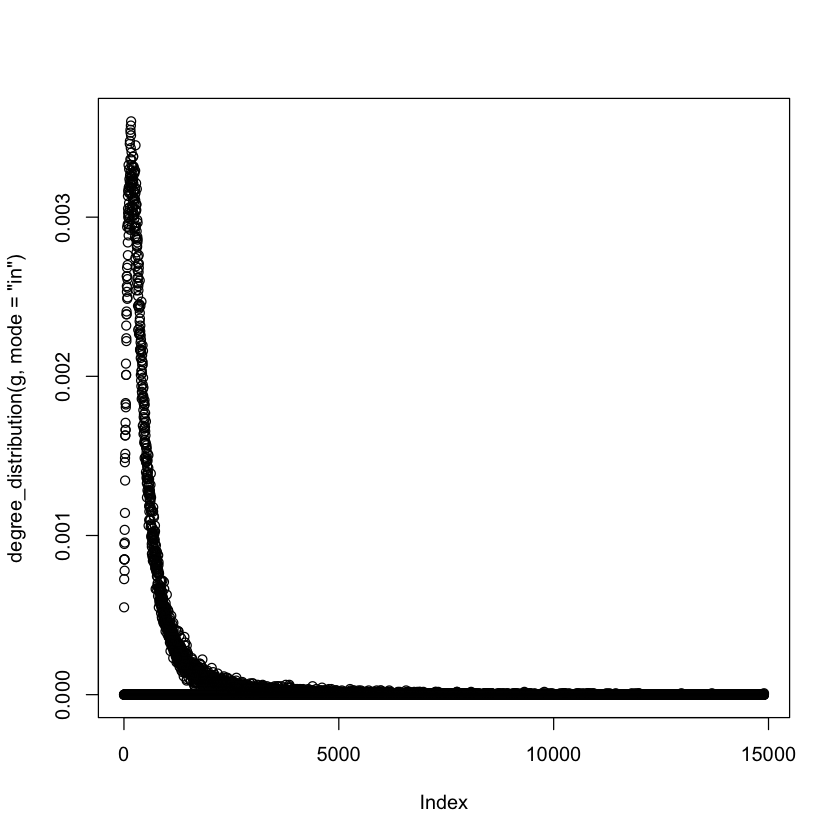
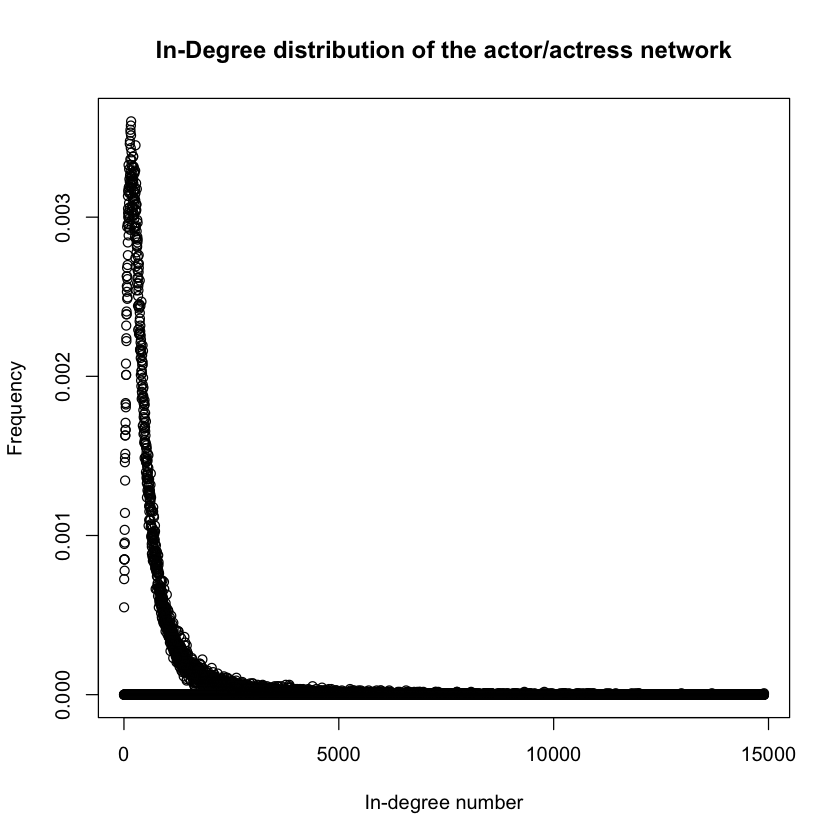
report

diff --git a/Project_4/Project4_Report.md b/Project_4/Project4_Report.md
@@ -12,11 +12,15 @@
 # 1. Actor/Actress network
 
 ### Question 1
+The total number of actors and actress is 113074. The total number of unique movies is 202483. 
 
 ## 1.1 Directed actor/actress network creation
 
 ### Question 2
+![degree distribution of actor](./plots/Q2.png)
+The in-degree distribution of the weighted actor/actress network. 
 
+From the plot, we can clearly see the most people did not have any inward degree in that network. Even the highest peak has only around 0.0038. For the people have inward degree, most of them lay between 0 to around 1000. 
 
 ## 1.2 Actor pairings
 
@@ -168,4 +172,5 @@ The most dominant genre calculated using the scoring function are different from
 
 ### Question 12
 
+We use three features in the model: the genre score as described in question 8, the actor score, which is the mean rating of the movies in which the actor participated in the community, and the director score, which is the mean rating of the movies that the director directed in the community. The root mean square error of our model is 0.82. According to our model, Batman v Superman: Dawn of Justice (2016) got 6.35; Mission: Impossible - Rogue Nation (2015) got 6.44 and Minions (2015) got 7.80.
 ### Question 13
